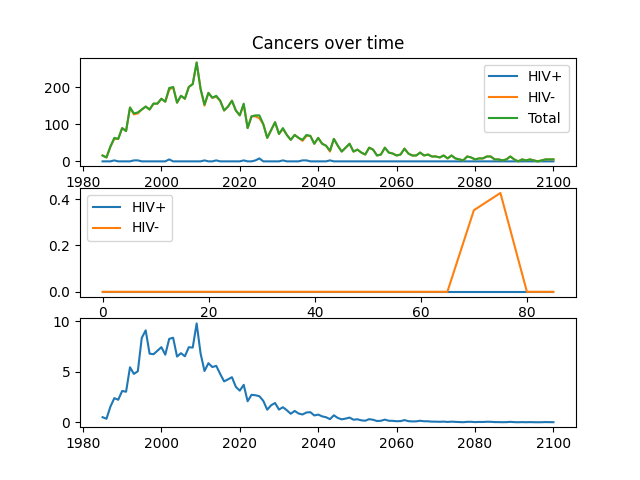
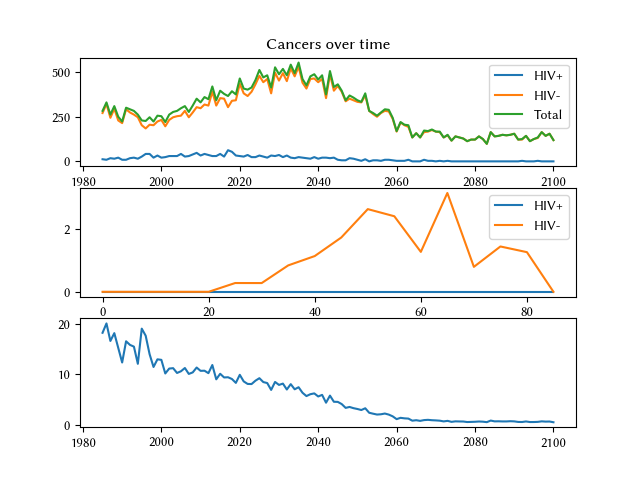
redo save logic

diff --git a/run_calibration_hiv.py b/run_calibration_hiv.py
@@ -27,6 +27,7 @@ import hpvsim as hpv
 
 # Imports from this repository
 import run_sim_hiv as rs
+import utils as ut
 
 # CONFIGURATIONS TO BE SET BY USERS BEFORE RUNNING
 to_run = [
@@ -37,20 +38,16 @@ debug = False  # If True, this will do smaller runs that can be run locally for 
 do_save = True
 
 # Run settings for calibration (dependent on debug)
-n_trials = [10000, 10][debug]  # How many trials to run for calibration
+n_trials = [3000, 10][debug]  # How many trials to run for calibration
 n_workers = 100   # How many cores to use
 storage = None
 
 ########################################################################
 # Run calibration
 ########################################################################
-
 def run_calib(n_trials=None, n_workers=None, do_plot=False, do_save=True, filestem=''):
 
-    hiv_pars = {
-        'cd4_trajectory': lambda y: np.full_like(np.atleast_1d(y), 0.5, dtype=float)
-    }
-    sim = rs.make_sim(calib=True, add_vax=False, hiv_pars=hiv_pars)
+    sim = rs.make_sim(calib=True, add_vax=True)
 
     dataloc = 'data/rwanda'  # Location of data files
     datafiles = [
@@ -98,7 +95,6 @@ def run_calib(n_trials=None, n_workers=None, do_plot=False, do_save=True, filest
         ),
     )
 
-
     # Save some extra sim results
     extra_sim_result_keys = ['cancers', 'cancers_with_hiv', 'cancers_no_hiv',
                              'cancers_by_age_with_hiv', 'cancers_by_age_no_hiv',
@@ -120,7 +116,11 @@ def run_calib(n_trials=None, n_workers=None, do_plot=False, do_save=True, filest
     if do_plot:
         calib.plot(do_save=True, fig_path=f'figures/{filename}.png')
     if do_save:
-        sc.saveobj(f'results/{filename}.obj', calib)
+        calib_pars = calib.trial_pars_to_sim_pars(which_pars=0)
+        sc.save(f'results/rwanda_pars{filestem}.obj', calib_pars)
+        n_to_save = max(len(calib.sim_results), 100)
+        cal = ut.shrink_calib(calib, n_results=n_to_save)
+        sc.saveobj(f'results/{filename}.obj', cal)
 
     print(f'Best pars are {calib.best_pars}')
 
@@ -130,7 +130,7 @@ def run_calib(n_trials=None, n_workers=None, do_plot=False, do_save=True, filest
 ########################################################################
 # Load pre-run calibration
 ########################################################################
-def load_calib(do_plot=True, which_pars=0, save_pars=True, filestem=''):
+def load_calib(do_plot=True, filestem=''):
     filename = f'rwanda_calib{filestem}'
     calib = sc.load(f'results/rwanda_calib.obj')
     if do_plot:
@@ -140,10 +140,6 @@ def load_calib(do_plot=True, which_pars=0, save_pars=True, filestem=''):
         fig.suptitle(f'Calibration results')
         fig.tight_layout()
         fig.savefig(f'figures/{filename}.png')
-
-    if save_pars:
-       calib_pars = calib.trial_pars_to_sim_pars(which_pars=which_pars)
-       sc.save(f'results/rwanda_pars{filestem}.obj', calib_pars)
 
     return calib
 
@@ -159,7 +155,7 @@ if __name__ == '__main__':
 
     # Load the calibration, plot it, and save the best parameters -- usually locally
     if 'plot_calibration' in to_run:
-        calib = load_calib(do_plot=True, save_pars=True)
+        calib = load_calib(do_plot=True)
 
         best_par_ind = calib.df.index[0]
         extra_sim_results = calib.extra_sim_results[best_par_ind]

diff --git a/utils.py b/utils.py
@@ -1,0 +1,26 @@
+'''
+Utilities
+'''
+
+# Imports
+import sciris as sc
+import hpvsim as hpv
+
+
+def set_font(size=None, font='Libertinus Sans'):
+    ''' Set a custom font '''
+    sc.fonts(add=sc.thisdir(aspath=True) / 'assets' / 'LibertinusSans-Regular.otf')
+    sc.options(font=font, fontsize=size)
+    return
+
+
+def shrink_calib(calib, n_results=100):
+    plot_indices = calib.df.iloc[0:n_results, 0].values
+    calib.analyzer_results = [calib.analyzer_results[i] for i in plot_indices]
+    calib.sim_results = [calib.sim_results[i] for i in plot_indices]
+    calib.extra_sim_results = [calib.extra_sim_results[i] for i in plot_indices]
+    calib.target_data = calib.target_data
+    calib.df = calib.df.iloc[0:n_results, ]
+    return calib
+
+ 
